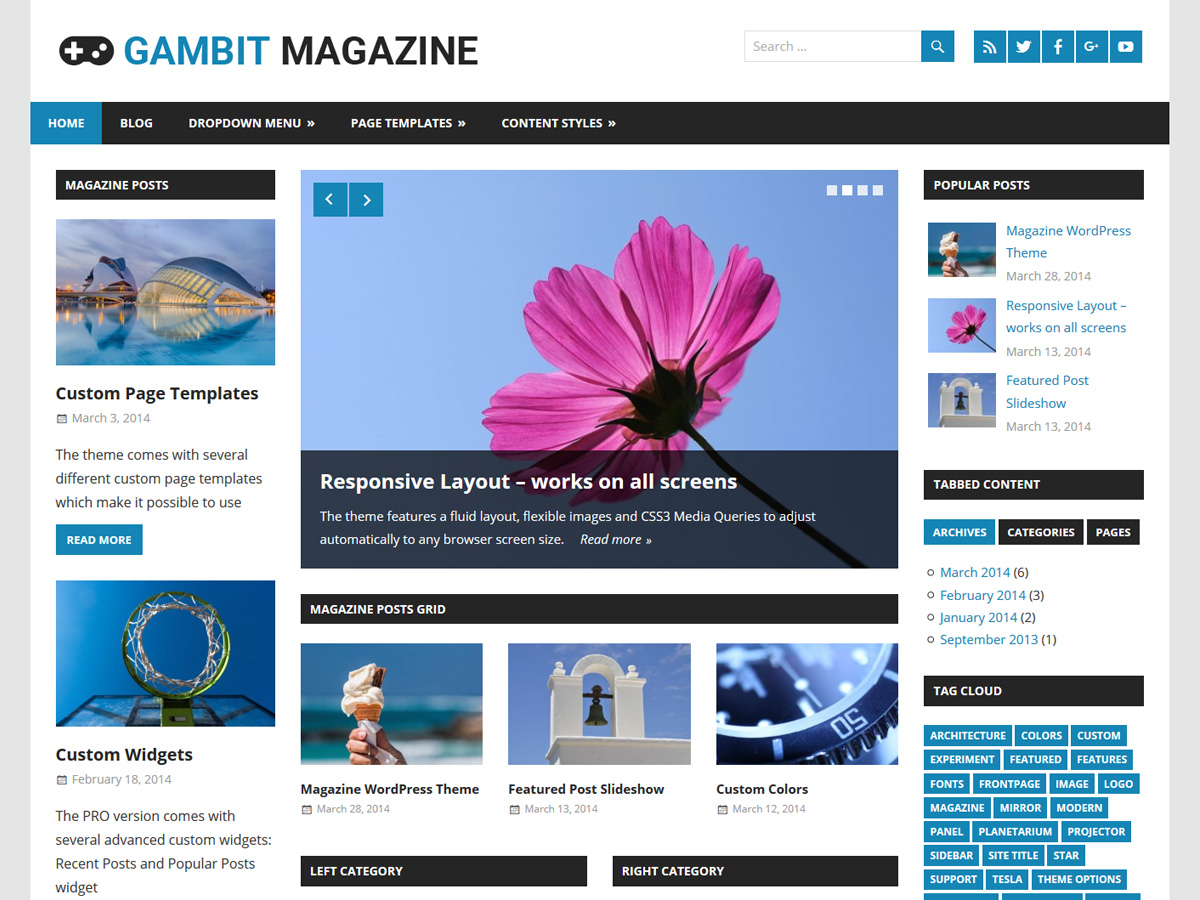
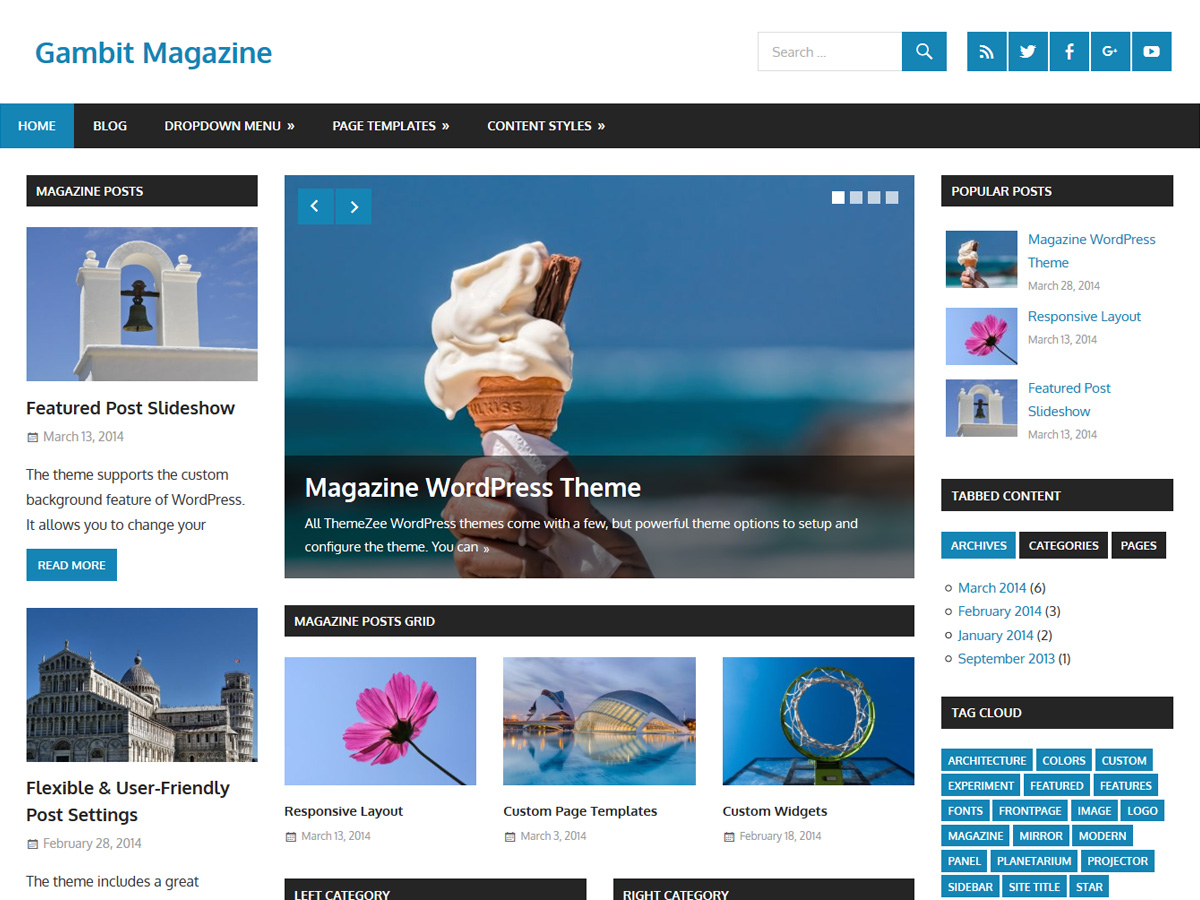
added extra setting to display tagline

diff --git a/style.css b/style.css
@@ -717,7 +717,7 @@ textarea {
 
 .site-title {
 	display: inline-block;
-	margin: 0 0.3em;
+	margin: 0;
 	padding: 0;
 	color: #1585b5;
 	font-family: 'Oxygen', sans-serif;
@@ -740,12 +740,18 @@ textarea {
 }
 
 .site-branding .custom-logo {
-	margin: 0.4em 1em 0.4em 0;
+	margin: 0.4em 0.6em 0.4em 0;
 	padding: 0;
 	border: none;
 	vertical-align: top;
 	max-width: 100%;
 	height: auto;
+}
+
+.site-description {
+	margin: 0 0 0.5em;
+	font-size: 15px;
+	font-size: 0.9375rem;
 }
 
 /* Header Widgets */
@@ -1115,9 +1121,8 @@ textarea {
 /*--------------------------------------------------------------
 ## 11.2 - Magazine Posts Widgets
 --------------------------------------------------------------*/
-
 .widget-magazine-posts {
-	margin-bottom: -1em;
+	margin-bottom: -1.5em;
 }
 
 .widget-magazine-posts .type-post {

diff --git a/inc/customizer/customizer.php b/inc/customizer/customizer.php
@@ -74,6 +74,23 @@ function gambit_customize_register_options( $wp_customize ) {
 		)
 	);
 
+	// Add Display Tagline Setting.
+	$wp_customize->add_setting( 'gambit_theme_options[site_description]', array(
+		'default'           => false,
+		'type'           	=> 'option',
+		'transport'         => 'refresh',
+		'sanitize_callback' => 'gambit_sanitize_checkbox',
+		)
+	);
+	$wp_customize->add_control( 'gambit_theme_options[site_description]', array(
+		'label'    => esc_html__( 'Display Tagline', 'gambit' ),
+		'section'  => 'title_tagline',
+		'settings' => 'gambit_theme_options[site_description]',
+		'type'     => 'checkbox',
+		'priority' => 11,
+		)
+	);
+
 } // gambit_customize_register_options()
 add_action( 'customize_register', 'gambit_customize_register_options' );
 

diff --git a/inc/template-tags.php b/inc/template-tags.php
@@ -52,6 +52,33 @@ function gambit_site_title() {
 endif;
 
 
+if ( ! function_exists( 'gambit_site_description' ) ) :
+/**
+ * Displays the site description in the header area
+ */
+function gambit_site_description() {
+
+	// Get theme options from database.
+	$theme_options = gambit_theme_options();
+
+	// Return early if site title is deactivated.
+	if ( false == $theme_options['site_description'] ) {
+		return;
+	}
+
+	$description = get_bloginfo( 'description', 'display' ); /* WPCS: xss ok. */
+
+	if ( $description || is_customize_preview() ) : ?>
+
+		<p class="site-description"><?php echo $description; ?></p>
+
+	<?php
+	endif;
+
+}
+endif;
+
+
 if ( ! function_exists( 'gambit_header_image' ) ) :
 /**
  * Displays the custom header image below the navigation menu

diff --git a/inc/customizer/default-options.php b/inc/customizer/default-options.php
@@ -32,6 +32,7 @@ function gambit_default_options() {
 
 	$default_options = array(
 		'site_title'						=> true,
+		'site_description'					=> false,
 		'theme_width' 						=> 'boxed-layout',
 		'theme_layout' 						=> 'content-center',
 		'blog_title'						=> esc_html__( 'Latest Posts', 'gambit' ),

diff --git a/header.php b/header.php
@@ -35,6 +35,7 @@
 
 					<?php gambit_site_logo(); ?>
 					<?php gambit_site_title(); ?>
+					<?php gambit_site_description(); ?>
 
 				</div><!-- .site-branding -->
 
